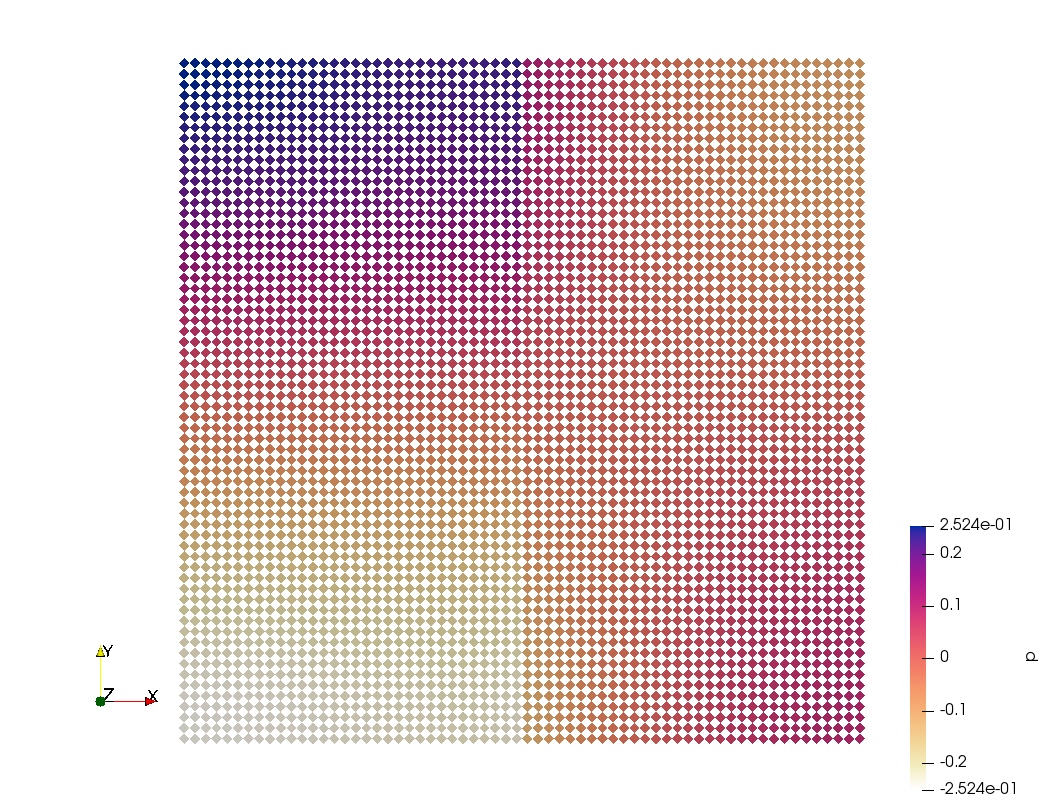
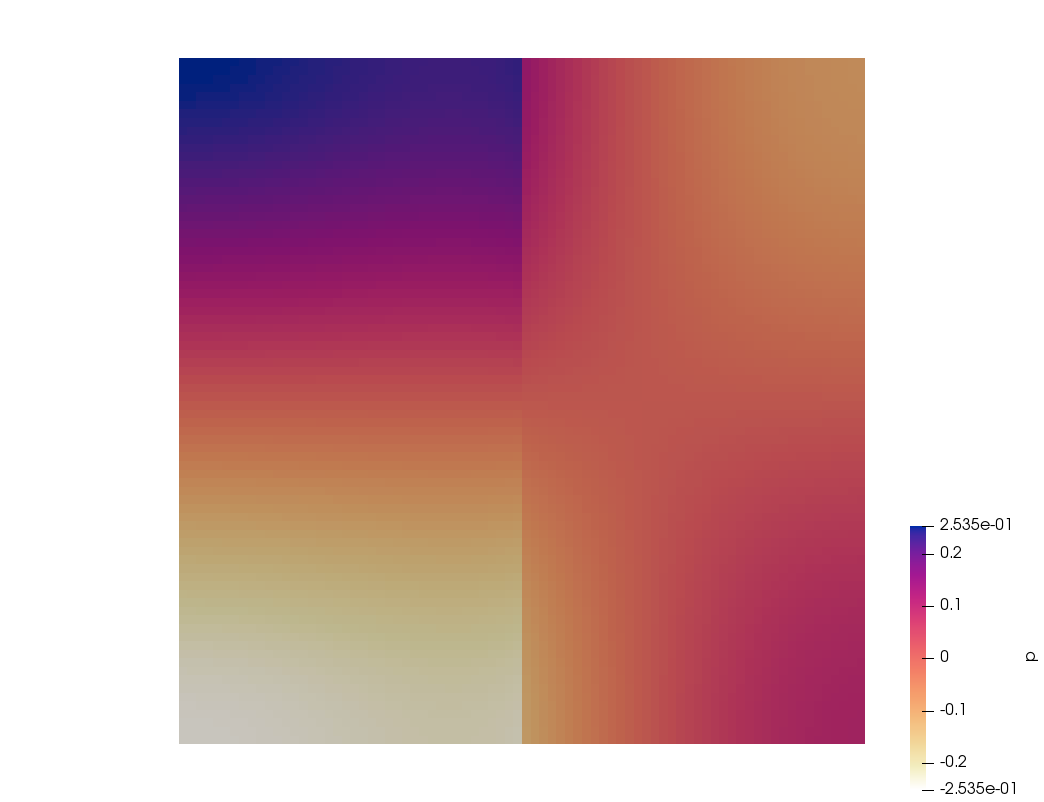
f77updt

Changed region(s): [[0.1533, 0.0623, 0.8276, 0.9352], [0.092, 0.8105, 0.1226, 0.8728], [0.9195, 0.9663, 0.9502, 0.9975]]

diff --git a/python_codes/fieldstone_77/text.tex b/python_codes/fieldstone_77/text.tex
@@ -35,6 +35,8 @@ I have implemented four benchmarks based on manufactured solutions:
 \item Donea-Huerta, see Section~\ref{mms1}
 
 \begin{center}
+\includegraphics[width=7cm]{python_codes/fieldstone_77/results/dh/vel}
+\includegraphics[width=7cm]{python_codes/fieldstone_77/results/dh/press}\\
 \includegraphics[width=8cm]{python_codes/fieldstone_77/results/dh/errors_form1}
 \includegraphics[width=8cm]{python_codes/fieldstone_77/results/dh/errors_form2}\\
 \includegraphics[width=8cm]{python_codes/fieldstone_77/results/dh/vrms_form1}
@@ -49,6 +51,8 @@ Bottom row: root mean square velocity relative error.}
 \item Volker John benchmark \cite{jolm17}, see Section~\ref{mms10}:
 
 \begin{center}
+\includegraphics[width=7cm]{python_codes/fieldstone_77/results/vj/vel}
+\includegraphics[width=7cm]{python_codes/fieldstone_77/results/vj/press}\\
 \includegraphics[width=8cm]{python_codes/fieldstone_77/results/vj/errors_form1}
 \includegraphics[width=8cm]{python_codes/fieldstone_77/results/vj/errors_form2}\\
 \includegraphics[width=8cm]{python_codes/fieldstone_77/results/vj/vrms_form1}
@@ -63,6 +67,8 @@ Bottom row: root mean square velocity relative error.}
 \item Dohrmann \& Bochev 2D benchmark \cite{dobo04,bodg06}, see Section~\ref{ss:mms2}:
 
 \begin{center}
+\includegraphics[width=7cm]{python_codes/fieldstone_77/results/db2D/vel}
+\includegraphics[width=7cm]{python_codes/fieldstone_77/results/db2D/press}\\
 \includegraphics[width=8cm]{python_codes/fieldstone_77/results/db2D/errors_form1}
 \includegraphics[width=8cm]{python_codes/fieldstone_77/results/db2D/errors_form2}\\
 \includegraphics[width=8cm]{python_codes/fieldstone_77/results/db2D/vrms_form1}
@@ -130,7 +136,7 @@ Results for all four basis functions are shown here:
 {\captionfont Full density. Left to right: RT(MP), RT(MV), DSSY(1), DSSY(2). 64x64 elements}
 \end{center}
 
-We see that the pressure field is lithostatic but the velocity field is abnormal 
+We see that the pressure field is lithostatic and chequerboard-free  but the velocity field is abnormal 
 (we expect a convection cell on each side of the cube).
 If I now re-run these experiments in reduced density ($\rho_0=0$) then we recover
 the expected velocity field\footnote{Not saying it is 'the' solution but it at least makes sense}:
@@ -152,22 +158,24 @@ the expected velocity field\footnote{Not saying it is 'the' solution but it at l
 \end{center}
 
 
-If I now conduct a study\footnote{cube has slightly different size} on the value of $\delta\rho$:
+If I now conduct a short study on the value of $\delta\rho$:
 
 \begin{center}
-\includegraphics[width=4cm]{python_codes/fieldstone_77/results/block/drho/vel1}
-\includegraphics[width=4cm]{python_codes/fieldstone_77/results/block/drho/vel3}
-\includegraphics[width=4cm]{python_codes/fieldstone_77/results/block/drho/vel2}\\
-\includegraphics[width=4cm]{python_codes/fieldstone_77/results/block/drho/vels1}
-\includegraphics[width=4cm]{python_codes/fieldstone_77/results/block/drho/vels3}
-\includegraphics[width=4cm]{python_codes/fieldstone_77/results/block/drho/vels2}\\
-\includegraphics[width=4cm]{python_codes/fieldstone_77/results/block/drho/press1}
-\includegraphics[width=4cm]{python_codes/fieldstone_77/results/block/drho/press3}
-\includegraphics[width=4cm]{python_codes/fieldstone_77/results/block/drho/press2}\\
+\includegraphics[width=5cm]{python_codes/fieldstone_77/results/block/drho/vel1}
+\includegraphics[width=5cm]{python_codes/fieldstone_77/results/block/drho/vel3}
+\includegraphics[width=5cm]{python_codes/fieldstone_77/results/block/drho/vel2}\\
+\includegraphics[width=5cm]{python_codes/fieldstone_77/results/block/drho/vels1}
+\includegraphics[width=5cm]{python_codes/fieldstone_77/results/block/drho/vels3}
+\includegraphics[width=5cm]{python_codes/fieldstone_77/results/block/drho/vels2}\\
+\includegraphics[width=5cm]{python_codes/fieldstone_77/results/block/drho/press1}
+\includegraphics[width=5cm]{python_codes/fieldstone_77/results/block/drho/press3}
+\includegraphics[width=5cm]{python_codes/fieldstone_77/results/block/drho/press2}\\
 {\captionfont From left to right: $\delta \rho=1,0.1,0.01$. 80x80 elements.}
 \end{center}
 
-The conclusion is clear: in its current form, these elements are not capable to 
+The conclusion is clear: in its current form, and unless there is a fundamental 
+flaw in my implementation\footnote{but then how could the anlalytical benchmarks work 
+so well?}, these elements are not capable to 
 deal with buoyancy-driven flows where $\delta \rho/\rho < 1-10\%$ which is 
 unfortunately the type of simulations that are carried out in mantle dynamics modelling.
 The reasons are (partially) discussed in Section~\ref{ss:RTq1p0}, but 

diff --git a/python_codes/fieldstone_77/stone.py b/python_codes/fieldstone_77/stone.py
@@ -296,7 +296,7 @@ eps=1.e-10
 # experiment 5: hor. poiseuille flow
 # experiment 6: solcx
 
-experiment=2
+experiment=4
 
 pnormalise=True
 
